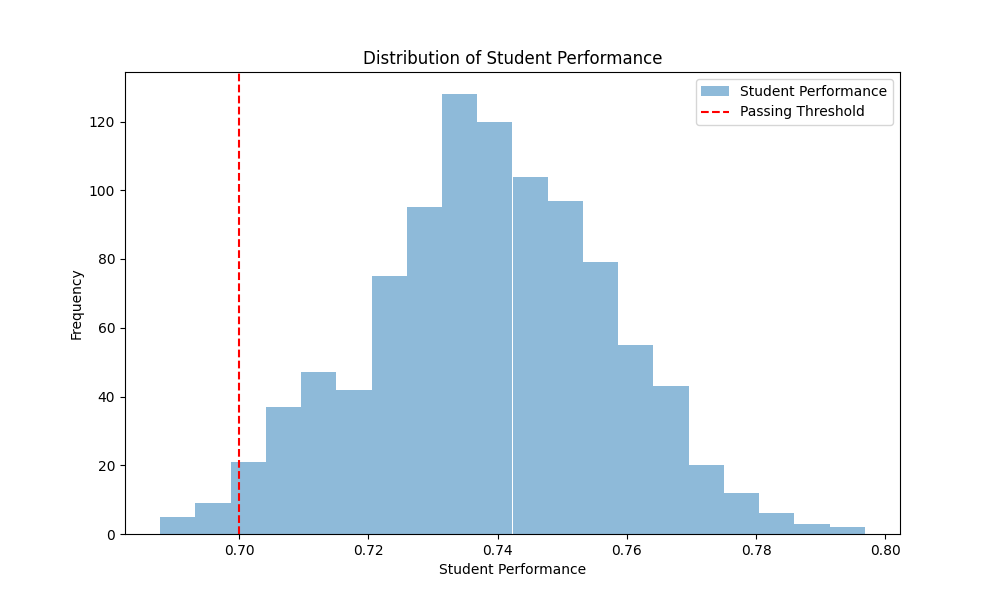
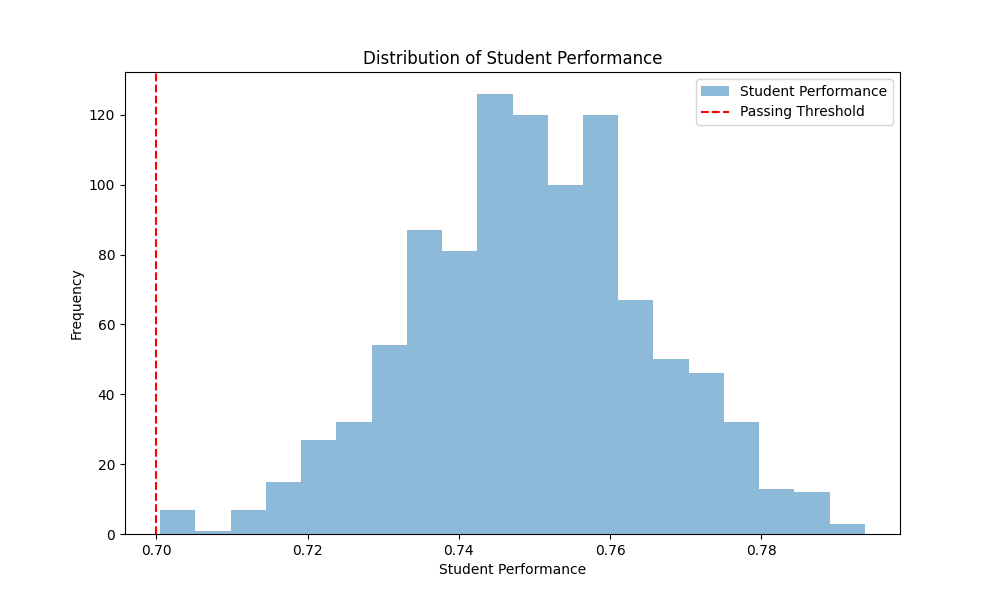
Update simulated student behavior to more accurate beta distribution

diff --git a/insurance/guarantee.py b/insurance/guarantee.py
@@ -10,16 +10,23 @@ refund_rate = 0.5  # 0% of students who don't pass get a refund
 profit_margin = 0.15  # 15% profit margin
 operating_cost_per_student = 1000  # base operating cost per student
 
-# mean of 0.75 (barely passing) and a standard deviation of 0.21
-mean_grade = 0.75
-stdev_grade = 0.21
+# # mean of 0.75 (barely passing) and a standard deviation of 0.2
+# mean_grade = 0.75
+# stdev_grade = 0.4
 
+# # Simulate student behavior using a normal distribution
+# student_performance = np.random.normal(mean_grade, stdev_grade, (num_simulations, num_students))
 
-# Simulate student behavior using a normal distribution
-student_performance = np.random.normal(mean_grade, stdev_grade, (num_simulations, num_students))
+# Define the parameters of the beta distribution
+# Found this distribution via https://mathlets.org/mathlets/beta-distribution/
+alpha = 4.5  # shape parameter for the beta distribution
+beta = 1.5  # shape parameter for the beta distribution
+
+# Simulate student behavior using a beta distribution
+student_performance = np.random.beta(alpha, beta, (num_simulations, num_students))
 
 # Clip student performance to be between 0 and 1
-student_performance = np.clip(student_performance, 0, 1)
+student_performance = np.minimum(student_performance, 1.0)
 
 # Calculate the number of students who pass
 num_passing_students = np.sum(student_performance >= passing_threshold, axis=1)
